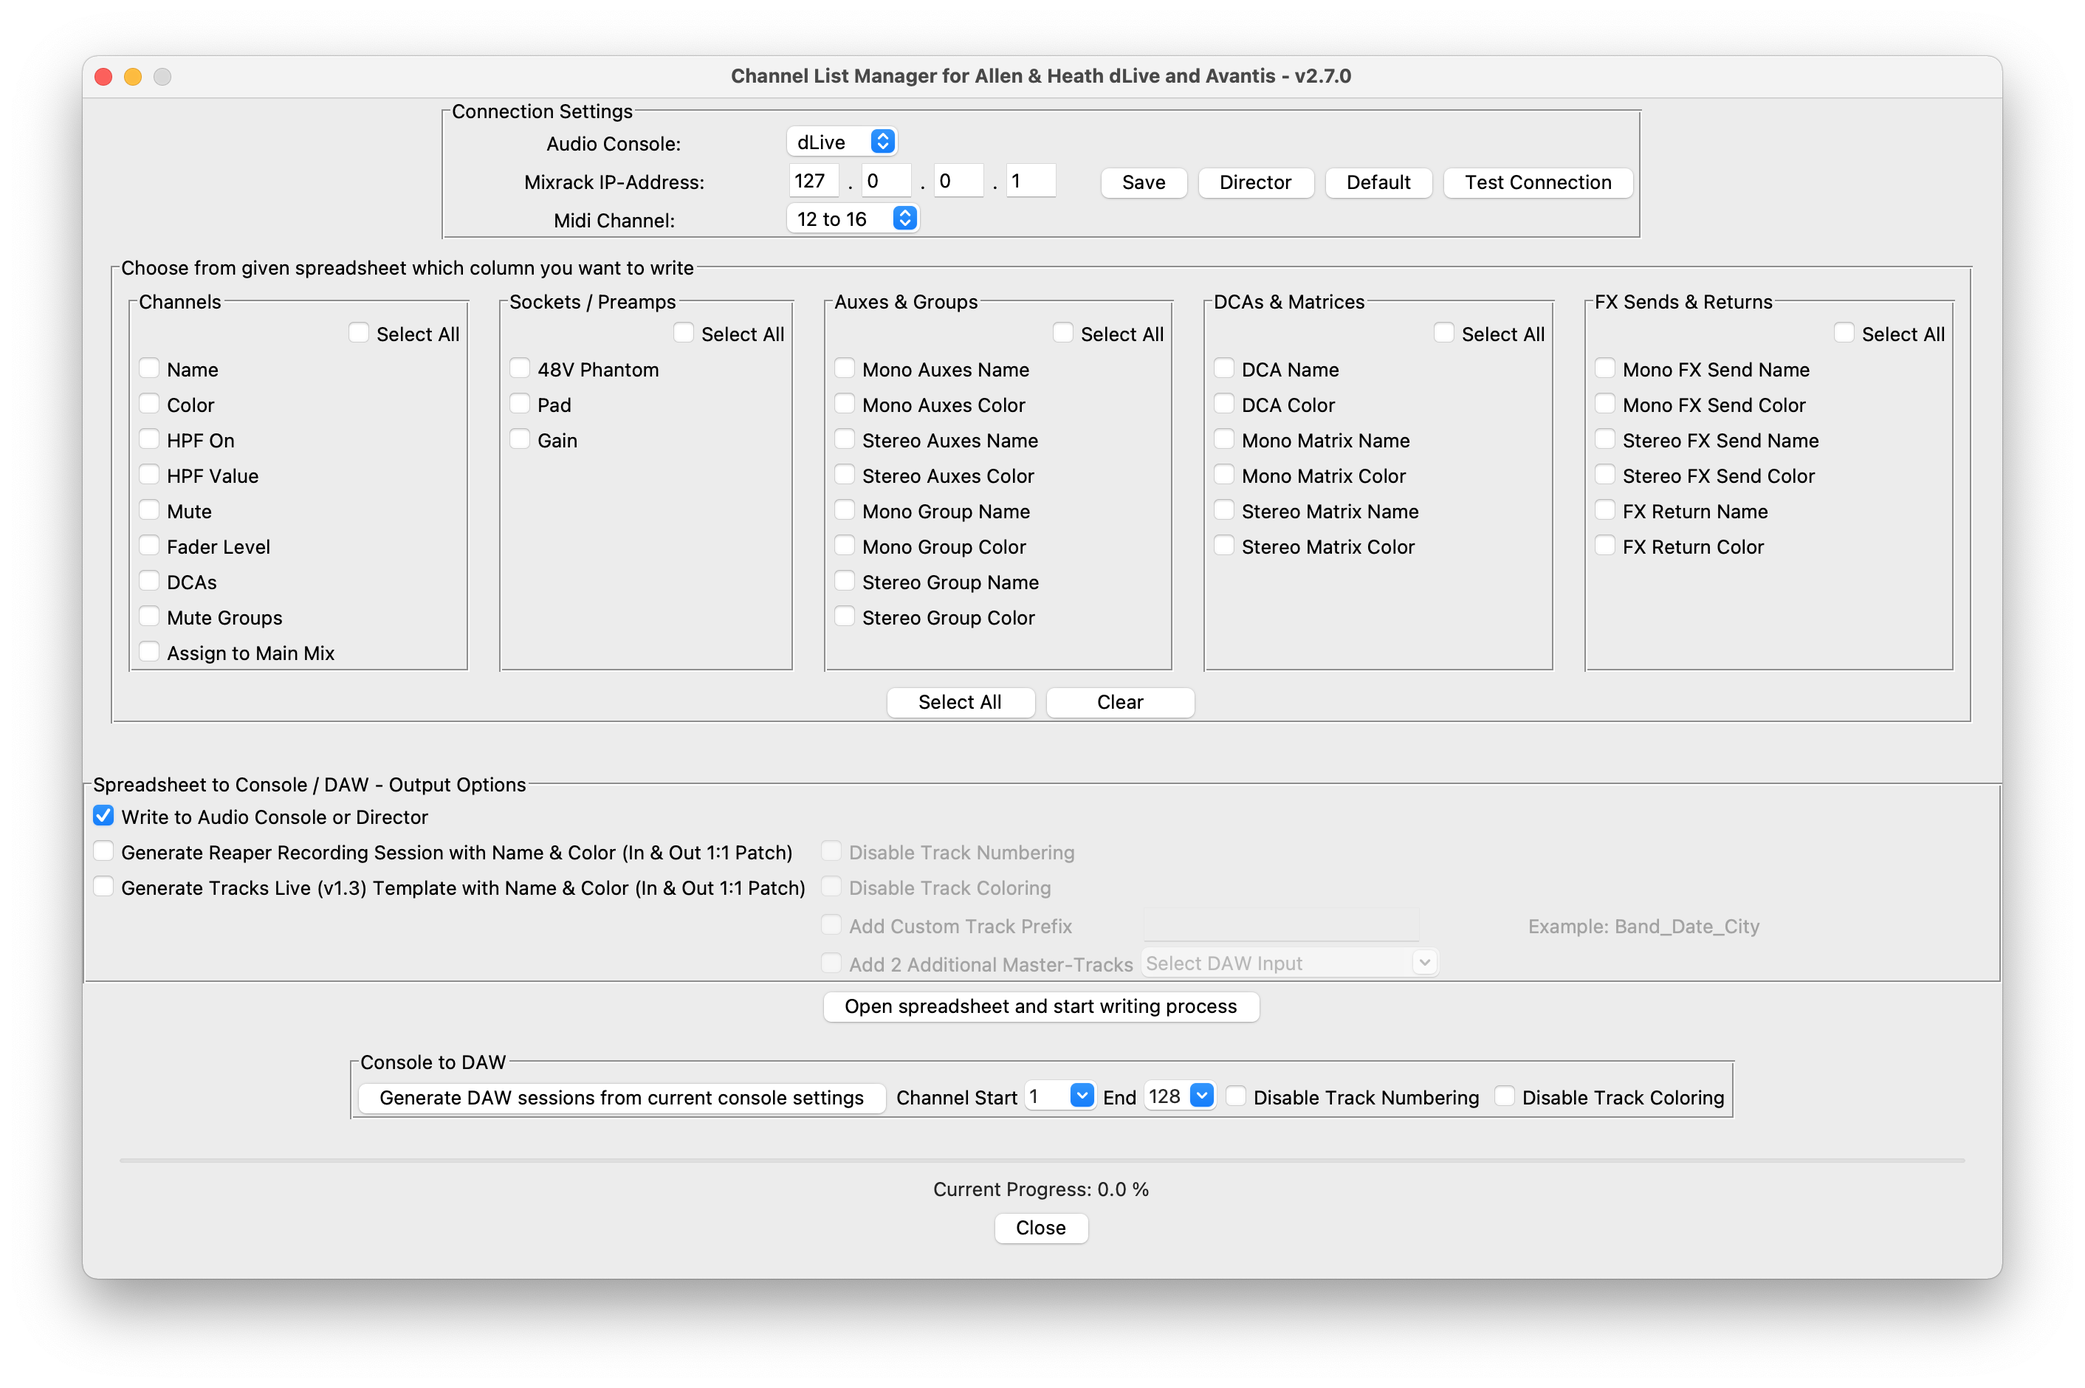
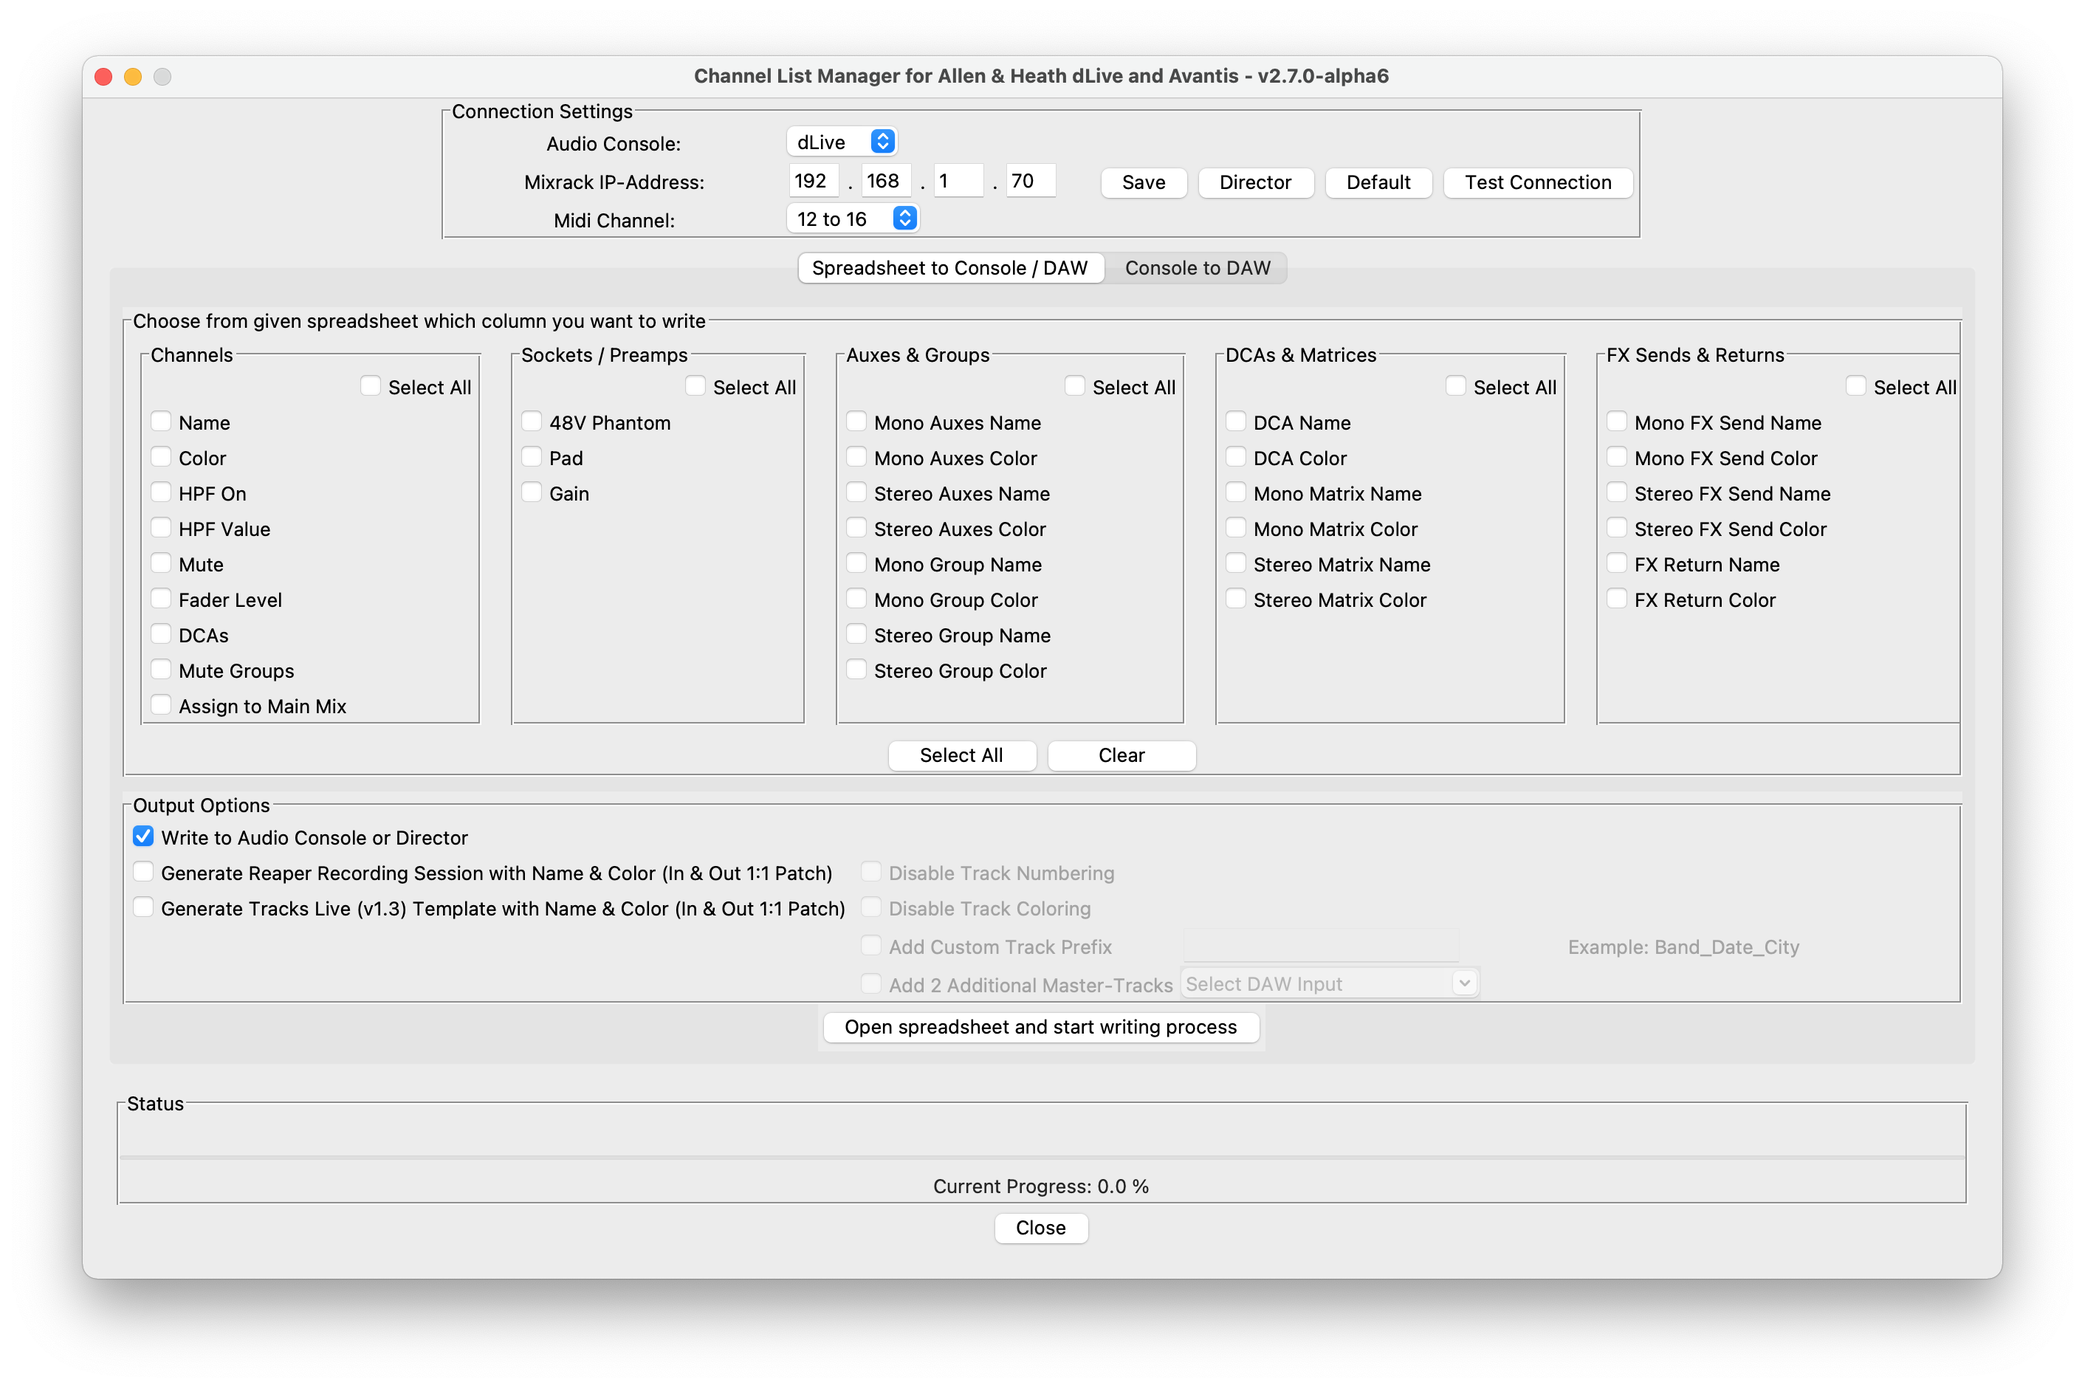
2nd refactoring

diff --git a/src/Main.py b/src/Main.py
@@ -132,85 +132,107 @@ def get_name_channel(output, data_color, start_channel, end_channel):
 
 
 def get_data_from_console():
-    reset_current_action_label()
-    reset_progress_bar()
-    progress_open_or_close_connection()
-    root.update()
-    actions = 4
-    current_action_label["text"] = "Choose a directory..."
-    root.update()
-    directory_path = filedialog.askdirectory(title="Please select a directory")
+    if var_console_to_daw_reaper.get() or var_console_to_daw_trackslive.get():
 
-    if directory_path.__len__() == 0:
-        return
-
-    if is_network_communication_allowed:
-        output = connect_to_console(read_current_ui_ip_address())
-        start_channel = int(var_current_console_startChannel.get()) - 1
-        end_channel = int(var_current_console_endChannel.get())
-        if start_channel > end_channel:
-            error_msg = "Start Channel: " + str(start_channel + 1) + " is greater than End Channel: " + str(end_channel)
-            logging.error(error_msg)
-            showerror(message=error_msg)
+        if var_console_to_daw_additional_master_tracks.get() and var_console_to_daw_master_recording_patch.get() == "Select DAW Input":
+            showerror(message="DAW Inputs for additional master tracks must to be chosen.")
             return
 
-        current_action_label["text"] = "Reading channel color from console"
-        progress(actions)
+        reset_current_action_label()
+        reset_progress_bar()
+        progress_open_or_close_connection()
         root.update()
-        data_color = get_color_channel(output, start_channel, end_channel)
+        actions = 2
 
-        current_action_label["text"] = "Reading channel name from console"
-        progress(actions)
+        if var_console_to_daw_reaper.get():
+            actions = increment_actions(actions)
+
+        if var_console_to_daw_trackslive.get():
+            actions = increment_actions(actions)
+
+
+        current_action_label["text"] = "Choose a directory..."
         root.update()
-        data_fin = get_name_channel(output, data_color, start_channel, end_channel)
+        directory_path = filedialog.askdirectory(title="Please select a directory")
 
-        sheet = Sheet()
-
-        sheet.set_channel_model(create_channel_list_content_from_console(data_fin))
-
-        try:
-            current_action_label["text"] = "Generating Reaper Session..."
-            progress(actions)
-            root.update()
-            ReaperSessionCreator.create_session(sheet, directory_path, "current-console",
-                                                var_disable_track_numbering_daw.get(),
-                                                var_reaper_additional_prefix.get(),
-                                                entry_additional_track_prefix.get(),
-                                                var_reaper_additional_master_tracks.get(),
-                                                var_master_recording_patch.get(), var_disable_track_coloring_daw.get())
-            text = "Reaper Recording Session Template created"
-            current_action_label["text"] = text
-            root.update()
-            logging.info(text)
-
-            current_action_label["text"] = "Generating Tracks Live Template..."
-            progress(actions)
-            root.update()
-            TracksLiveSessionCreator.create_session(sheet, directory_path, "current-console",
-                                                    var_disable_track_numbering_daw.get(),
-                                                    var_reaper_additional_prefix.get(),
-                                                    entry_additional_track_prefix.get(),
-                                                    var_reaper_additional_master_tracks.get(),
-                                                    var_master_recording_patch.get(),
-                                                    var_disable_track_coloring_daw.get())
-            text = "Tracks Live Recording Session Template created"
-            current_action_label["text"] = text
-            root.update()
-            logging.info(text)
-
-            output.close()
-            progress_open_or_close_connection()
-
-        except OSError:
-            error = "Some thing went wrong during store, please choose a folder where you have write rights."
-            logging.error(error)
-            current_action_label["text"] = error
-            showerror(message=error)
+        if directory_path.__len__() == 0:
             return
 
-        showinfo(message='Reading from Console done, Sessions created!')
+        if is_network_communication_allowed:
+            output = connect_to_console(read_current_ui_ip_address())
+            start_channel = int(var_current_console_startChannel.get()) - 1
+            end_channel = int(var_current_console_endChannel.get())
+            if start_channel > end_channel:
+                error_msg = "Start Channel: " + str(start_channel + 1) + " is greater than End Channel: " + str(
+                    end_channel)
+                logging.error(error_msg)
+                showerror(message=error_msg)
+                return
+
+            current_action_label["text"] = "Reading channel color from console"
+            progress(actions)
+            root.update()
+            data_color = get_color_channel(output, start_channel, end_channel)
+
+            current_action_label["text"] = "Reading channel name from console"
+            progress(actions)
+            root.update()
+            data_fin = get_name_channel(output, data_color, start_channel, end_channel)
+
+            sheet = Sheet()
+
+            sheet.set_channel_model(create_channel_list_content_from_console(data_fin))
+
+            try:
+                if var_console_to_daw_reaper.get():
+
+                    current_action_label["text"] = "Generating Reaper Session..."
+                    progress(actions)
+                    root.update()
+                    ReaperSessionCreator.create_session(sheet, directory_path, "current-console",
+                                                        var_console_to_daw_disable_track_numbering_daw.get(),
+                                                        var_console_to_daw_reaper_additional_prefix.get(),
+                                                        entry_console_to_daw_additional_track_prefix.get(),
+                                                        var_console_to_daw_additional_master_tracks.get(),
+                                                        var_console_to_daw_master_recording_patch.get(),
+                                                        var_console_to_daw_disable_track_coloring_daw.get())
+                    text = "Reaper Recording Session Template created"
+                    current_action_label["text"] = text
+                    root.update()
+                    logging.info(text)
+
+                if var_console_to_daw_trackslive.get():
+
+                    current_action_label["text"] = "Generating Tracks Live Template..."
+                    progress(actions)
+                    root.update()
+                    TracksLiveSessionCreator.create_session(sheet, directory_path, "current-console",
+                                                            var_console_to_daw_disable_track_numbering_daw.get(),
+                                                            var_console_to_daw_reaper_additional_prefix.get(),
+                                                            entry_console_to_daw_additional_track_prefix.get(),
+                                                            var_console_to_daw_additional_master_tracks.get(),
+                                                            var_console_to_daw_master_recording_patch.get(),
+                                                            var_console_to_daw_disable_track_coloring_daw.get())
+                    text = "Tracks Live Recording Session Template created"
+                    current_action_label["text"] = text
+                    root.update()
+                    logging.info(text)
+
+                output.close()
+                progress_open_or_close_connection()
+
+            except OSError:
+                error = "Some thing went wrong during store, please choose a folder where you have write rights."
+                logging.error(error)
+                current_action_label["text"] = error
+                showerror(message=error)
+                return
+
+            showinfo(message='Reading from console done, session(s) created!')
+        else:
+            output = None
     else:
-        output = None
+        showerror(message="Nothing to do, please select at least one output option.")
 
 
 def create_channel_list_content_from_console(data_fin):
@@ -1682,10 +1704,42 @@ def disable_reaper_options_ui_elements():
 
 
 def on_reaper_write_changed():
-    if var_write_reaper.get() == 1 or var_write_trackslive.get():
+    if var_write_reaper.get() or var_write_trackslive.get():
         enable_reaper_options_ui_elements()
     else:
         disable_reaper_options_ui_elements()
+
+
+def enable_console_to_daw_prefix_ui_elements():
+    entry_console_to_daw_additional_track_prefix.config(state="normal")
+    label_console_to_daw_track_prefix.config(state="normal")
+
+
+def disable_console_to_daw_prefix_ui_elements():
+    entry_console_to_daw_additional_track_prefix.config(state="disabled")
+    label_console_to_daw_track_prefix.config(state="disabled")
+
+
+def on_console_to_daw_prefix_changed():
+    if var_console_to_daw_reaper_additional_prefix.get():
+        enable_console_to_daw_prefix_ui_elements()
+    else:
+        disable_console_to_daw_prefix_ui_elements()
+
+
+def enable_console_to_daw_mastertracks_ui_elements():
+    combobox_console_to_daw_master_track.config(state="normal")
+
+
+def disable_console_to_daw_mastertracks_ui_elements():
+    combobox_console_to_daw_master_track.config(state="disabled")
+
+
+def on_console_to_daw_mastertracks_changed():
+    if var_console_to_daw_additional_master_tracks.get():
+        enable_console_to_daw_mastertracks_ui_elements()
+    else:
+        disable_console_to_daw_mastertracks_ui_elements()
 
 
 def update_progress_label():
@@ -2072,7 +2126,8 @@ if __name__ == '__main__':
 
     values_start = [f"{i}" for i in range(1, 129)]
     var_current_console_startChannel = StringVar()
-    combobox_start = Combobox(start_end_channel_frame, textvariable=var_current_console_startChannel, values=values_start, width=3)
+    combobox_start = Combobox(start_end_channel_frame, textvariable=var_current_console_startChannel,
+                              values=values_start, width=3)
     combobox_start.set("1")
 
     Label(start_end_channel_frame, text="Channel Start").grid(row=0, column=0, sticky="w")
@@ -2088,25 +2143,78 @@ if __name__ == '__main__':
 
     start_end_channel_frame.grid(row=0)
 
-    var_disable_track_numbering_daw = BooleanVar(value=False)
-    cb_reaper_disable_numbering_daw = Checkbutton(console_to_daw_settings_lf,
-                                                  text="Disable Track Numbering",
-                                                  var=var_disable_track_numbering_daw)
+    var_console_to_daw_disable_track_numbering_daw = BooleanVar(value=False)
+    cb_console_to_daw_disable_track_numbering_daw = Checkbutton(console_to_daw_settings_lf,
+                                                                text="Disable Track Numbering",
+                                                                var=var_console_to_daw_disable_track_numbering_daw)
 
-    var_disable_track_coloring_daw = BooleanVar(value=False)
-    cb_reaper_disable_track_coloring_daw = Checkbutton(console_to_daw_settings_lf,
-                                                       text="Disable Track Coloring",
-                                                       var=var_disable_track_coloring_daw)
+    var_console_to_daw_disable_track_coloring_daw = BooleanVar(value=False)
+    cb_console_to_daw_disable_track_coloring_daw = Checkbutton(console_to_daw_settings_lf,
+                                                               text="Disable Track Coloring",
+                                                               var=var_console_to_daw_disable_track_coloring_daw)
 
-    cb_reaper_disable_numbering_daw.grid(row=1, sticky="w")
-    cb_reaper_disable_track_coloring_daw.grid(row=2, sticky="w")
+    var_console_to_daw_reaper_additional_prefix = BooleanVar(value=False)
+    cb_console_to_daw_reaper_additional_prefix = Checkbutton(console_to_daw_settings_lf,
+                                                             text="Add Custom Track Prefix",
+                                                             var=var_console_to_daw_reaper_additional_prefix,
+                                                             command=on_console_to_daw_prefix_changed)
 
-    bottom2_frame = Frame(tab2)
+    entry_console_to_daw_additional_track_prefix = Entry(console_to_daw_settings_lf, width=20)
 
-    Button(bottom2_frame, text='Generate DAW sessions from current console settings',
+    label_console_to_daw_track_prefix = Label(console_to_daw_settings_lf, text="Example: Band_Date_City", width=25)
+
+    var_console_to_daw_additional_master_tracks = BooleanVar(value=False)
+    cb_console_to_daw_additional_master_tracks = Checkbutton(console_to_daw_settings_lf,
+                                                             text="Add 2 Additional Master-Tracks",
+                                                             var=var_console_to_daw_additional_master_tracks,
+                                                             command=on_console_to_daw_mastertracks_changed)
+
+    values = [f"{i}-{i + 1}" for i in range(1, 127, 2)]
+    values.append("127-128")  # workaround
+    var_console_to_daw_master_recording_patch = StringVar()
+    combobox_console_to_daw_master_track = Combobox(console_to_daw_settings_lf,
+                                                    textvariable=var_console_to_daw_master_recording_patch,
+                                                    values=values)
+    combobox_console_to_daw_master_track.set("Select DAW Input")
+
+    disable_console_to_daw_prefix_ui_elements()
+    disable_console_to_daw_mastertracks_ui_elements()
+
+    console_to_daw_output_options_lf = LabelFrame(tab2, text="Output Options")
+
+    var_console_to_daw_reaper = BooleanVar(value=False)
+    cb_console_to_daw_reaper = Checkbutton(console_to_daw_output_options_lf,
+                                           text="Generate Reaper Session",
+                                           var=var_console_to_daw_reaper)
+
+    var_console_to_daw_trackslive = BooleanVar(value=False)
+    cb_console_to_daw_trackslive = Checkbutton(console_to_daw_output_options_lf,
+                                               text="Generate Tracks Live Template",
+                                               var=var_console_to_daw_trackslive)
+
+    label_space = Label(console_to_daw_output_options_lf, width=48)
+
+
+    cb_console_to_daw_reaper.grid(row=0, column=0, sticky="w")
+    label_space.grid(row=0, column=1, sticky="w")
+    cb_console_to_daw_trackslive.grid(row=1, sticky="w")
+
+    console_to_daw_output_options_lf.pack(side=TOP)
+
+    cb_console_to_daw_disable_track_numbering_daw.grid(row=1, sticky="w")
+    cb_console_to_daw_disable_track_coloring_daw.grid(row=2, sticky="w")
+    cb_console_to_daw_reaper_additional_prefix.grid(row=3, column=0, sticky="w")
+    entry_console_to_daw_additional_track_prefix.grid(row=3, column=1, sticky="w")
+    label_console_to_daw_track_prefix.grid(row=3, column=2)
+    cb_console_to_daw_additional_master_tracks.grid(row=4, column=0, sticky="w")
+    combobox_console_to_daw_master_track.grid(row=4, column=1, sticky="w")
+
+    button_frame = Frame(tab2)
+
+    Button(button_frame, text='Generate DAW session(s) from current console settings',
            command=get_data_from_console).pack(side=BOTTOM)
 
-    #----------------- Status Area-------------------
+    # ----------------- Status Area-------------------
 
     bottom3_frame = LabelFrame(root, text="Status")
 
@@ -2134,10 +2242,8 @@ if __name__ == '__main__':
 
     bottom4_frame.pack(side=BOTTOM)
     bottom3_frame.pack(side=BOTTOM)
-    bottom2_frame.pack(side=TOP)
+    button_frame.pack(side=TOP)
     bottom_frame.pack(side=BOTTOM)
-
-
 
     var_console.trace("w", on_console_selected)
 

diff --git a/src/Toolinfo.py b/src/Toolinfo.py
@@ -6,5 +6,5 @@
 #
 ####################################################
 tool_name = "Channel List Manager for Allen & Heath dLive and Avantis"
-version = "2.7.0-alpha6"
+version = "2.7.0-alpha7"
 build_date = "January 2024"
